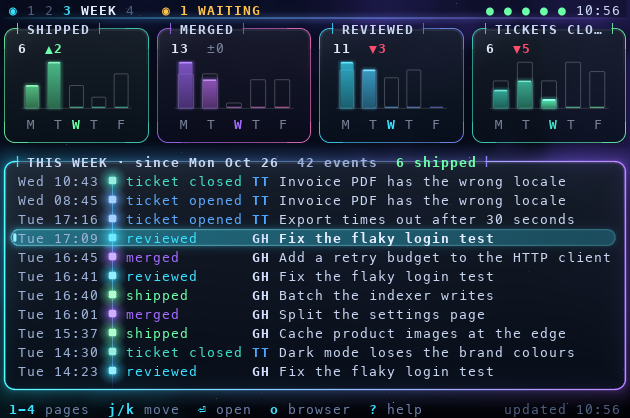
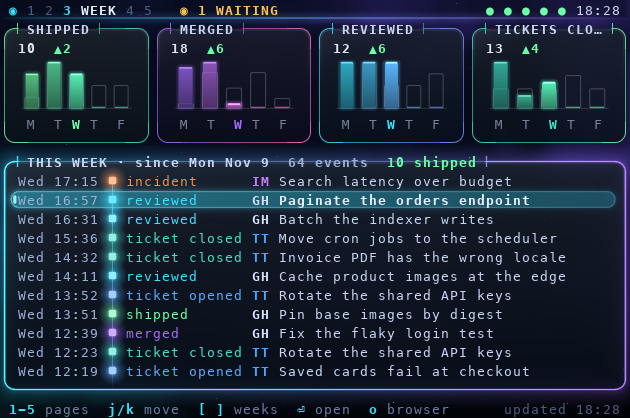
Generic demo data: no names or chores that echo private material
Big Work becomes Projects, the showcase's owners sam and alex become ravi
and kim, a test's repo name becomes example-repo, jdoe becomes dana, and
the console's demo tasks, done list and session prompts are web-product
chores. Both packages' screenshots are regenerated.

diff --git a/textual-orbital/examples/console/demo.py b/textual-orbital/examples/console/demo.py
@@ -102,9 +102,9 @@ class DemoWorld:
             Entity("search-reindex-job", "search-reindex-job", "search", EntityState.WORKING, t - 4 * M, "",
                    "Profiling the batch indexer", "claude://session/search-reindex-job"),
             Entity("runbook-cleanup", "runbook-cleanup", "ops-docs", EntityState.IDLE, t - 70 * M, "",
-                   "Finished: 9 runbooks updated", "claude://session/runbook-cleanup"),
+                   "Finished: 9 help pages updated", "claude://session/runbook-cleanup"),
             Entity("dependency-bumps", "dependency-bumps", "web-shell", EntityState.ERROR, t - 9 * M,
-                   "API rate limited", "GitHub API returned 403 (secondary rate limit)",
+                   "Hit the API rate limit", "GitHub API returned 429 (too many requests)",
                    "claude://session/dependency-bumps"),
         ):
             self.sessions[s.id] = s
@@ -150,15 +150,15 @@ class DemoWorld:
                           "platform team", t - 9 * H, "aware", f"{ORG}/build-images/pull/77"),
             AttentionItem("im-disk", "IM", 5, "disk 81%", "db-replica-3 data volume", "prod-eu", "grows 2% a day",
                           t - 4 * D, "aware", f"{MONITOR}/hosts/db-replica-3"),
-            AttentionItem("TT-2185", "TT", 4, "closed", "Move cron jobs to the scheduler", "Platform", "done · jules",
+            AttentionItem("TT-2185", "TT", 4, "closed", "Move cron jobs to the scheduler", "Platform", "done · mei",
                           t - 11 * H, "aware", f"{TICKETS}/TT-2185"),
             AttentionItem("im-cert", "IM", 4, "cert expires", "api.example.com certificate", "edge", "in 12 days",
                           t - 2 * D, "aware", f"{MONITOR}/certs/api"),
             AttentionItem("gh-pr-203", "GH", 3, "bot review", "Update the test runner to 9.4", "web-shell",
                           "deps-bot", t - 2 * H, "aware", f"{ORG}/web-shell/pull/203"),
-            AttentionItem("ss-12", "SS", 3, "outdated", "14 dependencies behind", "payments-api", "2 major",
+            AttentionItem("ss-12", "SS", 3, "outdated", "Base image 3 releases behind", "payments-api", "2 fixes",
                           t - 6 * D, "aware", f"{SCANNER}/12"),
-            AttentionItem("ss-4", "SS", 2, "secret", "Test token in a fixture", "web-shell", "revoked",
+            AttentionItem("ss-4", "SS", 2, "license", "Copyleft licence in a dev dependency", "web-shell", "dev only",
                           t - 30 * D, "aware", f"{SCANNER}/4"),
         )}
         #: The first day the sources report events for: the Monday two weeks before this one.
@@ -175,22 +175,23 @@ class DemoWorld:
                  f"{TICKETS}/TT-2101", "G-2"),
             Task("TT-2102", "Search ranking experiment", "Mei", "in progress", "Projects", t - 12 * D,
                  f"{TICKETS}/TT-2102", "G-3"),
-            Task("TT-2150", "Weekly patching", "Jules", "in progress", "Ongoing", t - 31 * D, f"{TICKETS}/TT-2150"),
-            Task("TT-2151", "Dependency update triage", "Dana", "in progress", "Ongoing", t - 45 * D,
+            Task("TT-2150", "Weekly release notes", "Jules", "in progress", "Ongoing", t - 31 * D,
+                 f"{TICKETS}/TT-2150"),
+            Task("TT-2151", "Triage the bug inbox", "Dana", "in progress", "Ongoing", t - 45 * D,
                  f"{TICKETS}/TT-2151"),
             Task("TT-2190", "Rotate the shared API keys", "Noor", "in review", "Small tasks", t - 2 * D,
                  f"{TICKETS}/TT-2190", "G-1"),
-            Task("TT-2193", "Budget alerts per team", "Jules", "in progress", "Small tasks", t - 4 * D,
+            Task("TT-2193", "Alerts for slow checkouts", "Jules", "in progress", "Small tasks", t - 4 * D,
                  f"{TICKETS}/TT-2193", "G-4"),
-            Task("TT-2196", "Remove unused service accounts", "Omar", "blocked", "Small tasks", t - 6 * D,
+            Task("TT-2196", "Remove unused feature flags", "Omar", "blocked", "Small tasks", t - 6 * D,
                  f"{TICKETS}/TT-2196", "G-1"),
         ]
         self.done = [
             DoneTask("TT-2088", "Retire the old status page", t - 2 * H, "done", f"{TICKETS}/TT-2088"),
             DoneTask("TT-2084", "Enable audit logs in staging", t - D, "done", f"{TICKETS}/TT-2084"),
-            DoneTask("TT-2080", "Standardize log retention", t - 2 * D, "closed", f"{TICKETS}/TT-2080"),
-            DoneTask("TT-2077", "Rightsize the staging database", t - 3 * D, "done", f"{TICKETS}/TT-2077"),
-            DoneTask("TT-2071", "Document the DNS runbook", t - 5 * D, "done", f"{TICKETS}/TT-2071"),
+            DoneTask("TT-2080", "Unify the error pages", t - 2 * D, "closed", f"{TICKETS}/TT-2080"),
+            DoneTask("TT-2077", "Speed up the product image cache", t - 3 * D, "done", f"{TICKETS}/TT-2077"),
+            DoneTask("TT-2071", "Document the release checklist", t - 5 * D, "done", f"{TICKETS}/TT-2071"),
         ]
         self.failing: dict[str, str] = {}
         self.added = 0  # tasks added with add_task
@@ -267,9 +268,9 @@ class DemoWorld:
                 self._session(s.id, EntityState.WORKING, "", "Continuing")
             elif s.state is EntityState.WORKING:
                 reason, detail = rng.choice([
-                    ("permission prompt", "Wants to run: kubectl rollout restart deploy/api"),
-                    ("question", "Keep the old endpoint for a week?"),
-                    ("plan ready for review", "Plan: 3 files, 96 lines. Approve to continue?"),
+                    ("permission prompt", "Wants to run: make deploy-preview"),
+                    ("question", "Keep both page layouts behind a flag?"),
+                    ("plan ready for review", "Plan: 4 files, 120 lines. Approve to continue?"),
                 ])
                 self._session(s.id, EntityState.WAITING, reason, detail)
             else:

diff --git a/textual-glass/examples/showcase/world.py b/textual-glass/examples/showcase/world.py
@@ -105,11 +105,11 @@ class Incident:
 
 
 INCIDENTS: tuple[Incident, ...] = (
-    Incident("INC-231", 1, "search", "Search returns 503 for a third of queries", "14m", "sam"),
+    Incident("INC-231", 1, "search", "Search returns 503 for a third of queries", "14m", "ravi"),
     Incident("INC-230", 2, "checkout", "p95 above 800 ms on checkout", "38m", "priya"),
     Incident("INC-229", 3, "media", "Thumbnail queue backlog", "1h", "lee"),
     Incident("INC-226", 3, "notify", "Duplicate push notifications on Android", "3h", "dana"),
-    Incident("INC-224", 4, "reports", "CSV export drops the last row", "1d", "alex"),
+    Incident("INC-224", 4, "reports", "CSV export drops the last row", "1d", "kim"),
     Incident("INC-221", 4, "profile", "Avatar upload is slow on large files", "2d", "jo"),
 )
 
@@ -180,7 +180,7 @@ ACTIVITY: tuple[tuple[str, str, str, str], ...] = (
     ("13:52", "success", "github", "checks passed on #491 (14 of 14)"),
     ("13:58", "primary", "deploy", "ledger v0.9.0 canary at 3 of 5 regions"),
     ("14:03", "error", "monitor", "search shard 3 stopped answering"),
-    ("14:04", "error", "pager", "INC-231 opened, sam is on it"),
+    ("14:04", "error", "pager", "INC-231 opened, ravi is on it"),
     ("14:09", "muted", "deploy", "search v1.9.3 hotfix building on staging"),
     ("14:12", "waiting", "claude", "Claude Code is waiting: ship checkout v2.14.0?"),
 )

diff --git a/textual-orbital/src/textual_orbital/model.py b/textual-orbital/src/textual_orbital/model.py
@@ -161,7 +161,7 @@ class AttentionItem:
         why: Short verb phrase: "review", "respond", "unblock"...
         title: What it is about.
         where: Repo, list or project.
-        detail: One line of context ("jdoe requested changes").
+        detail: One line of context ("dana requested changes").
         since: When it started needing attention (age is computed from it).
         section: ``"attention"`` or ``"aware"``.
         url: Opened by ``o``.
@@ -352,7 +352,7 @@ class Goal:
 
 @dataclass(frozen=True)
 class Task:
-    """A task in progress. ``group`` is the list it lives in ("Big Work"...).
+    """A task in progress. ``group`` is the list it lives in ("Projects"...).
 
     ``source`` is the key of the source that reported it: when set, ``TaskBoard``
     shows it as a badge. ``data`` is the app's own frozen record; compared, never

diff --git a/textual-glass/examples/showcase/dialogs.py b/textual-glass/examples/showcase/dialogs.py
@@ -124,7 +124,7 @@ class ServiceScreen(ModalScreen[None]):
         table.border_title = "Recent deploys"
         t = self.tones
         table.add_columns("Version", "When", "By", "Result")
-        people = ("dana", "sam", "priya", "lee", "Claude Code", "alex")
+        people = ("dana", "ravi", "priya", "lee", "Claude Code", "kim")
         for k, version in enumerate(history(self.service.version, 8)):
             result = Text("reverted", style=t.text_error) if k == 3 else Text("shipped", style=t.text_success)
             table.add_row(Text(version, style="bold"), f"{k * 2 + 1}d ago", people[k % len(people)], result)

diff --git a/textual-orbital/tests/test_pilot.py b/textual-orbital/tests/test_pilot.py
@@ -273,7 +273,7 @@ async def test_alert_queue_snooze_and_resolve(output: Output) -> None:
                 break
         assert not app.alert_queue.snoozed
         # a new wait pops up, and closes by itself when the wait is answered elsewhere
-        world(app)._session("rate-limit-middleware", EntityState.WAITING, "question", "Keep the old endpoint?")
+        world(app)._session("rate-limit-middleware", EntityState.WAITING, "question", "Keep both layouts?")
         app.poll_all()
         for _ in range(40):
             await asyncio.sleep(0.05)

diff --git a/textual-glass/tests/sample_app.py b/textual-glass/tests/sample_app.py
@@ -105,7 +105,7 @@ class Sample(App):
         for i in range(60):
             label = f" {10 - i % 10:>2} "
             score = Text(label, style=f"bold white on {BADGE}") if i % 10 == 0 else Text(label)
-            table.add_row(score, f"Item number {i}", "infra-live")
+            table.add_row(score, f"Item number {i}", "example-repo")
         self.query_one(ProgressBar).update(progress=60)
         table.focus()
 
